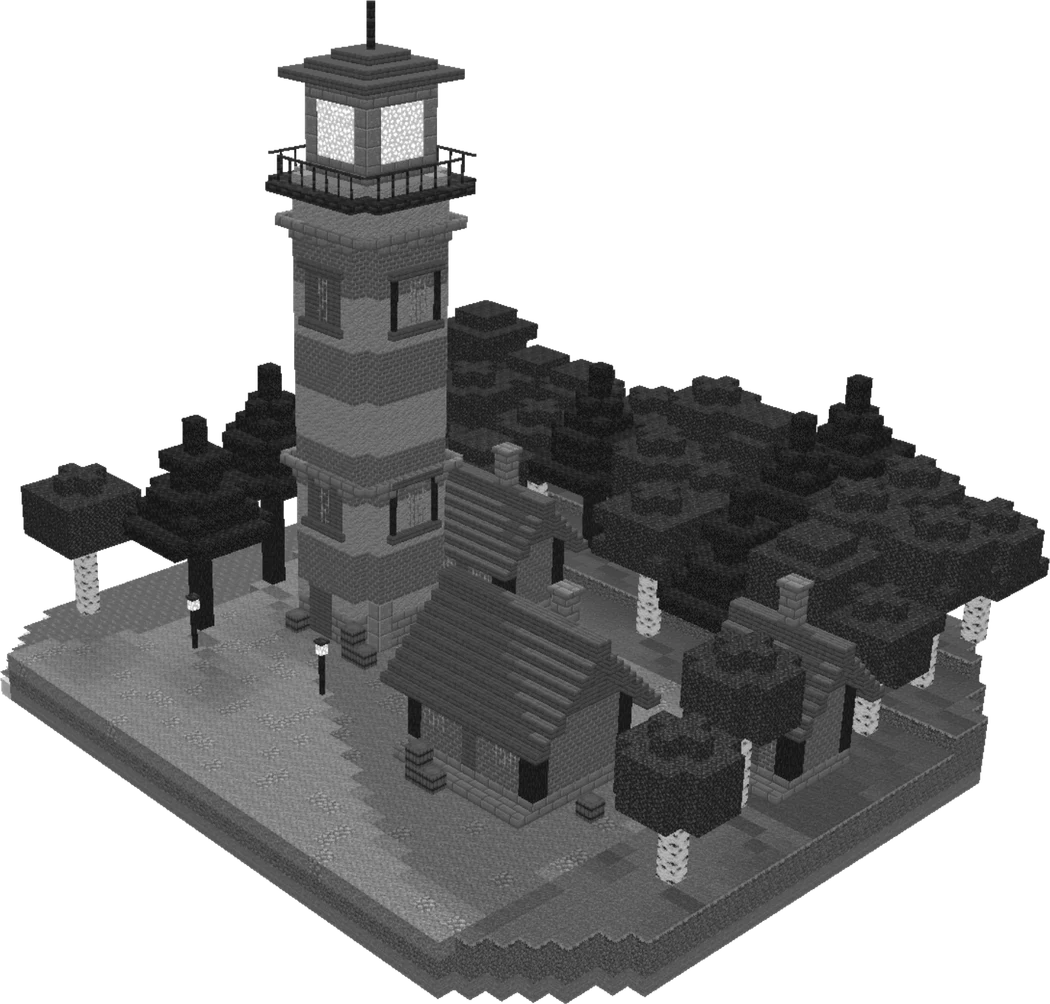
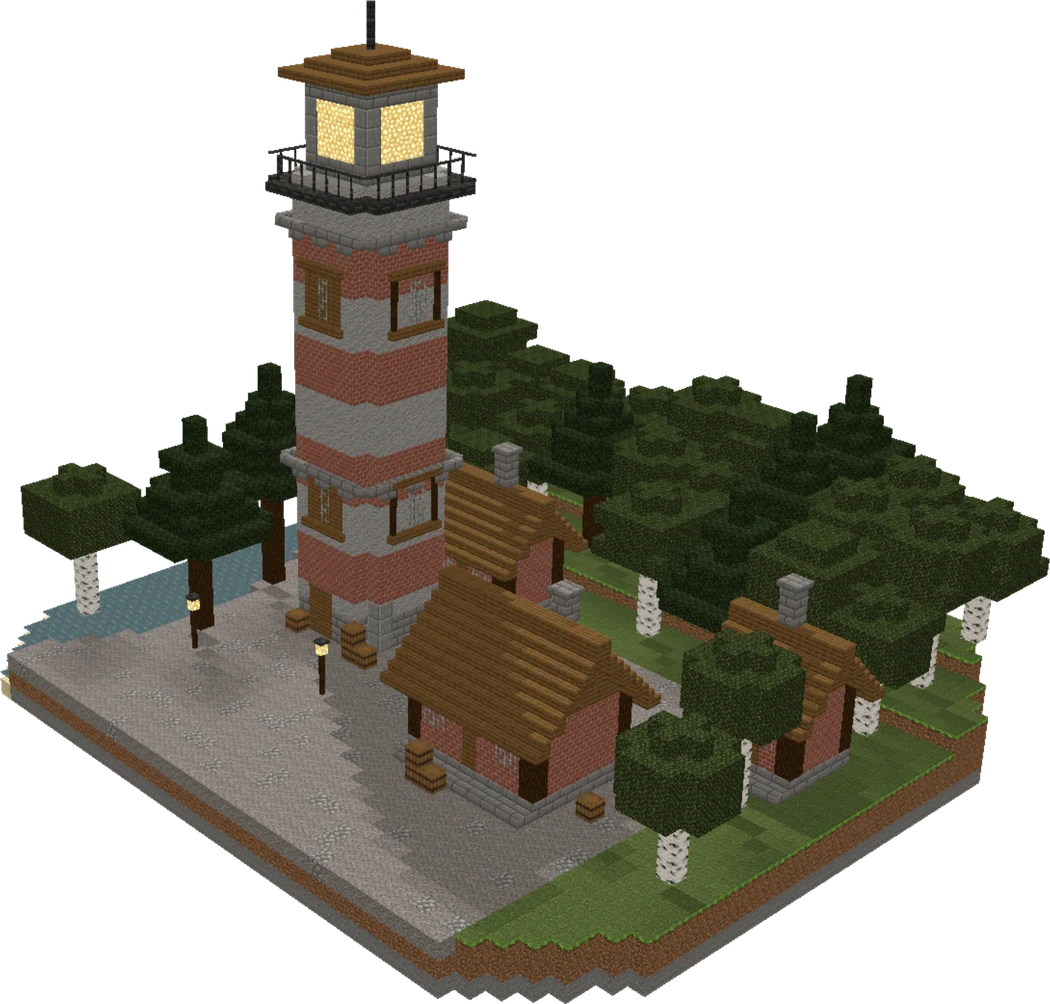
Restore Minecraft color and swirling block reconstruction

diff --git a/app/components/home/network-world.ts b/app/components/home/network-world.ts
@@ -1,20 +1,67 @@
 import * as THREE from 'three';
 import { networkCell } from './timeline.mjs';
 
-export function createNetworkWorld() {
-  // Every node is a closed, identically sized cube. Terrain face culling is never
-  // reused here, so rotating the network cannot expose missing walls or stair fragments.
-  const geometry = new THREE.BoxGeometry(.32,.32,.32);
+export function createNetworkWorld(world: THREE.Mesh<THREE.BufferGeometry, THREE.ShaderMaterial>) {
+  // Closed cubes replace the sealed world during breakup: no culled interior
+  // surfaces can become holes. Reuse the original atlas, with no extra texture.
+  const geometry = new THREE.BoxGeometry(.32, .32, .32);
+  const centers = world.geometry.getAttribute('aCenter');
+  const ids = world.geometry.getAttribute('aId');
+  const tiles = world.geometry.getAttribute('aTile');
+  const tints = world.geometry.getAttribute('aTint');
+  const unique = new Map<number, number>();
+  for (let i = 0; i < ids.count; i += 4) if (!unique.has(ids.getX(i))) unique.set(ids.getX(i), i);
+  const samples = [...unique.values()];
+  const sources = new Float32Array(1080 * 3), colors = new Float32Array(1080 * 3);
+  const tile = new Float32Array(1080), seeds = new Float32Array(1080);
+  for (let id = 0; id < 1080; id++) {
+    // A coprime permutation interleaves distant building/terrain blocks in racks.
+    const sample = samples[Math.floor(((id * 487) % 1080) / 1080 * samples.length)];
+    sources.set([centers.getX(sample), centers.getY(sample), centers.getZ(sample)], id * 3);
+    colors.set([tints.getX(sample), tints.getY(sample), tints.getZ(sample)], id * 3);
+    tile[id] = tiles.getX(sample); seeds[id] = id;
+  }
+  geometry.setAttribute('aSource', new THREE.InstancedBufferAttribute(sources, 3));
+  geometry.setAttribute('aTint', new THREE.InstancedBufferAttribute(colors, 3));
+  geometry.setAttribute('aTile', new THREE.InstancedBufferAttribute(tile, 1));
+  geometry.setAttribute('aSeed', new THREE.InstancedBufferAttribute(seeds, 1));
   const material = new THREE.ShaderMaterial({
-    uniforms:{uReveal:{value:0}},
-    vertexShader:`uniform float uReveal; varying float vLight;
-      void main(){ vLight=.5+.5*max(0.,dot(normal,normalize(vec3(-.5,1.,.6))));
-      vec3 p=(instanceMatrix*vec4(position*uReveal,1.)).xyz;
-      gl_Position=projectionMatrix*modelViewMatrix*vec4(p,1.); }`,
-    fragmentShader:`varying float vLight; void main(){gl_FragColor=vec4(vec3(.82)*vLight,1.); #include <colorspace_fragment> }`.replace('#include','\n#include').replace('> }','>\n}'),
+    uniforms: { uAtlas: world.material.uniforms.uAtlas, uNetwork: { value: 0 }, uSpread: { value: 1 } },
+    vertexShader: `
+      uniform float uNetwork, uSpread;
+      attribute vec3 aSource, aTint;
+      attribute float aTile, aSeed;
+      varying vec2 vUv;
+      varying vec3 vTint;
+      varying float vTile, vLight;
+      void main() {
+        float t = clamp(uNetwork, 0., 1.);
+        float burst = sin(t * 3.14159265);
+        float seed = aSeed * 2.39996323;
+        float angle = burst * (5. + mod(aSeed, 5.));
+        mat2 spin = mat2(cos(angle), -sin(angle), sin(angle), cos(angle));
+        vec3 local = position;
+        local.xz = spin * local.xz;
+        local.xy = spin * local.xy;
+        local *= smoothstep(0., .09, t);
+        vec3 destination = instanceMatrix[3].xyz;
+        vec3 p = mix(aSource, destination, smoothstep(.08, .98, t));
+        p += burst * uSpread * vec3(sin(seed + t * 9.) * 8., cos(seed * 1.7 + t * 7.) * 6., cos(seed + t * 11.) * 8.);
+        gl_Position = projectionMatrix * modelViewMatrix * vec4(p + local, 1.);
+        vUv = uv; vTint = aTint; vTile = aTile;
+        vLight = .55 + .45 * max(0., dot(normal, normalize(vec3(-.5, 1., .6))));
+      }
+    `,
+    fragmentShader: world.material.fragmentShader.replace(
+      'gl_FragColor = vec4(color, 1.0 - uNetwork);',
+      'color = mix(color, vec3(.82) * vLight, smoothstep(.65, .98, uNetwork)); gl_FragColor = vec4(color, 1.0);'
+    ).replace('else if (texel.a < .4 && vTile < 27.5) discard;', 'else if (texel.a < .4 && vTile < 27.5 && uNetwork < .65) discard;'),
   });
-  const mesh = new THREE.InstancedMesh(geometry,material,1080), transform=new THREE.Object3D();
-  for(let id=0;id<1080;id++){ const [x,y,z]=networkCell(id); transform.position.set(x,y,z); transform.updateMatrix(); mesh.setMatrixAt(id,transform.matrix); }
-  mesh.frustumCulled=false;
-  return {mesh,uniforms:material.uniforms};
+  const mesh = new THREE.InstancedMesh(geometry, material, 1080), transform = new THREE.Object3D();
+  for (let id = 0; id < 1080; id++) {
+    const [x, y, z] = networkCell(id);
+    transform.position.set(x, y, z); transform.updateMatrix(); mesh.setMatrixAt(id, transform.matrix);
+  }
+  mesh.frustumCulled = false;
+  return { mesh, uniforms: material.uniforms };
 }

diff --git a/app/components/home/scene.ts b/app/components/home/scene.ts
@@ -42,7 +42,7 @@ export async function createScene(host: HTMLElement, onFailure: () => void, sign
   const camera = new THREE.PerspectiveCamera(39, 1, .1, 130);
   const root = new THREE.Group();
   root.add(world.mesh);
-  const network = createNetworkWorld();
+  const network = createNetworkWorld(world.mesh);
   root.add(network.mesh);
   const infrastructure = createInfrastructure();
   root.add(infrastructure.group);
@@ -134,10 +134,11 @@ export async function createScene(host: HTMLElement, onFailure: () => void, sign
     camera.lookAt(pose.target[0], pose.target[1], pose.target[2]);
     root.rotation.y = pose.rotation + Math.max(-.025, Math.min(.025, velocity));
     root.rotation.z = mobile ? 0 : pointerX * .007;
-    world.mesh.visible = pose.network < .999;
+    world.mesh.visible = pose.network < .18;
     network.mesh.visible = pose.network > .01;
-    network.uniforms.uReveal.value = Math.min(1,pose.network * 1.5);
-    world.uniforms.uNetwork.value = pose.network;
+    network.uniforms.uNetwork.value = pose.network;
+    network.uniforms.uSpread.value = mobile ? .72 : 1;
+    world.uniforms.uNetwork.value = Math.min(1, pose.network / .18);
     world.uniforms.uSplit.value = pose.split;
     world.uniforms.uTime.value = now / 1000;
     infrastructure.material.opacity = pose.network * .65;

diff --git a/app/components/home/cinematic-home.module.css b/app/components/home/cinematic-home.module.css
@@ -9,7 +9,7 @@
 .wordmark { position:absolute; top:15%; left:5.5%; font-size:clamp(120px,20vw,320px); line-height:.9; font-weight:850; letter-spacing:-.065em; pointer-events:none; }
 .scene { position:absolute; inset:4% -12% -8% 3%; pointer-events:none; }
 .scene canvas { display:block; width:100%; height:100%; }
-.fallback { position:absolute; left:34%; top:17%; right:0; bottom:3%; pointer-events:none; filter:grayscale(1); }
+.fallback { position:absolute; left:34%; top:17%; right:0; bottom:3%; pointer-events:none; }
 .fallback img { width:100%; height:100%; object-fit:contain; }
 .root[data-mode='cinematic'] .fallback { display:none; }
 .chapters { position:absolute; inset:0; pointer-events:none; }

diff --git a/app/components/home/textured-world.ts b/app/components/home/textured-world.ts
@@ -69,7 +69,7 @@ export async function createTexturedWorld(signal?: AbortSignal) {
         color *= vec3(1.06, 1.0, .91);
         // Light sources stay bright without a bloom pass.
         if (vTile > 17.5 && vTile < 18.5) color = mix(color, vec3(1.0, .8, .28), .5);
-        color = vec3(dot(color, vec3(.2126,.7152,.0722)));
+
         gl_FragColor = vec4(color, 1.0 - uNetwork);
         #include <colorspace_fragment>
       }

diff --git a/DESIGN.md b/DESIGN.md
@@ -4,7 +4,7 @@
 Only `/`, on the isolated `codex/stimemc-cinematic` branch. Existing routes, navigation, APIs and authentication stay intact. Source claims come from the existing homepage and server mechanism content: Java/Bedrock crossplay through Geyser/ViaProxy, server-side modifications without client mods, player creations and community rules.
 
 ## Current direction — September 8 refinement
-One native-scroll cinematic stage: STIME → ENTER THE WORLD → JAVA × BEDROCK → A WORLD. A SYSTEM. → BEYOND VANILLA → ONE WORLD → JOIN STIME. The lighthouse reconstruction follows the supplied Minecraft reference, using original Java 1.21.1 block textures. The latest explicit black/white request takes precedence over the earlier warm-color direction: preserve texture detail, render neutral grayscale. Complementary shader code is not executed in the browser.
+One native-scroll cinematic stage: STIME → ENTER THE WORLD → JAVA × BEDROCK → A WORLD. A SYSTEM. → BEYOND VANILLA → ONE WORLD → JOIN STIME. The lighthouse reconstruction follows the supplied Minecraft reference, using original Java 1.21.1 block textures. September 9 correction: keep the interface and aligned network black/white, but restore original Minecraft colors on buildings, foliage and terrain. Complementary shader code is not executed in the browser.
 
 ## Visual foundations
 Black #090909 background, white #f5f5f5 lettering, gray borders and infrastructure. One Pretendard/Noto Sans KR/system sans family throughout. Readable dark #111111f5 cards behind all chapter explanations and titles. Large STIME remains a separate cinematic wordmark. Every homepage action uses the same dark fill, one-pixel border, 3px radius and clear white hover/focus treatment.
@@ -15,7 +15,7 @@ Remove tiny HUD annotations, scroll instructions, side chapter rail, quality/mot
 Desktop: large wordmark, world toward the right, explanation card left. Portrait mobile: title/world and readable card use separately positioned layers, technology cards above the network. Short landscape: compact left copy and right scene, with the join action clear of the card. Native touch scrolling is never intercepted. Use stable svh sizing, safe areas and at least 44px action targets.
 
 ## Geometry and animation
-Offline axis-aligned surface union removes both whole-block and partial slab/roof overlaps, retaining one owner per coplanar surface. Preserve UV offsets after clipping. Keep the physical Minecraft world intact while fading into 1,080 separate closed instanced cubes in three exact 6×10×6 racks. Never morph culled terrain fragments into disconnected cubes. Technology packets and waves animate continuously while visible; settled physical-world scenes sleep. Hidden tabs/offscreen scenes stop rendering.
+Offline axis-aligned surface union removes both whole-block and partial slab/roof overlaps, retaining one owner per coplanar surface. Preserve UV offsets after clipping. Hand off the physical world to 1,080 closed textured cubes sampled from its actual block locations. Cubes spin and cross through a broad deterministic cloud before settling into three exact 6×10×6 racks. Their texture color transitions to neutral white only as alignment completes. Reverse scrolling reconstructs the world. Portrait scatter uses 72% of the desktop travel distance. Never morph culled terrain fragments into disconnected cubes. Technology packets and waves animate continuously while visible; settled physical-world scenes sleep. Hidden tabs/offscreen scenes stop rendering.
 
 ## Performance and fallback
 One merged textured world draw: 27,862 triangles, 64,782 compressed geometry bytes. Network: 12,960 triangles in one instanced draw. Target fewer than 20 calls, 45k triangles and 2.4 million framebuffer pixels. One padded 256×128 atlas, baked directional light, no shadow maps or post-processing. Clamp mip derivatives within atlas padding. Geometry expands once from bounded 24-byte face records.

diff --git a/docs/homepage-refinements-validation.md b/docs/homepage-refinements-validation.md
@@ -37,3 +37,13 @@ Intel UHD/Chrome에서 5.5초 스크롤 측정: 6배 CPU 제한 데스크톱과 
 1.28Mbps, 150ms 지연, CPU 4배 제한: 첫 표시 1.60초, LCP 2.70초, 3D 준비 5.84초. JS 전송 약 425KB. SwiftShader 소프트웨어 WebGL도 동작했으며 해당 검사 RAF p95는 33.4ms였습니다.
 
 실제 저가 휴대폰의 발열·배터리·GPU 프레임 완료 시간은 이 데스크톱 에뮬레이션으로 검증할 수 없습니다. 측정값은 이번 로컬 실행 결과이며 기기별 보장 수치가 아닙니다.
+
+## 2026-09-09 후속 수정 — 색상과 분해 연출 복원
+
+위 11번의 세계 전체 무채색 처리는 후속 요청에 따라 변경했습니다. UI·카드·정렬된 네트워크는 흑백으로 유지하고, Minecraft 건물·나무·지형 및 대체 포스터는 원래 색상으로 복원했습니다.
+
+마을이 사라지고 격자가 나타나던 전환은 1,080개 닫힌 텍스처 큐브가 실제 마을 블록 위치에서 출발하여 회전·교차·분산한 뒤 정렬되는 연출로 변경했습니다. 정렬 마지막 단계에서만 흑백으로 변합니다. 반대로 스크롤하면 마을로 재구성됩니다. 모바일은 이동 거리를 72%로 조절합니다. 동일 아틀라스를 공유하며, 내부 면이 제거된 원본 마을 조각은 이동시키지 않아 기존 빈 면 문제를 방지합니다.
+
+이번 수정도 프로덕션 빌드와 전체 테스트 94개, 린트 검증을 수행했습니다. 전환 중간 단계는 데스크톱/모바일 각각 6개 시점으로 별도 캡처해 색상·분산·최종 정렬을 확인했습니다. 로그는 `scratch/cinematic/restored-*`에 있습니다.
+
+후속 브라우저 검사도 10개 화면 크기 × 7개 장면, 자동 LOW, 터치, 모션 감소 및 실패 대체 경로 모두 통과했으며 브라우저 오류는 없었습니다. 기존 장면별 렌더 예산을 유지합니다.

diff --git a/public/home/minecraft/README.md b/public/home/minecraft/README.md
@@ -26,6 +26,6 @@ The full client archive and loose source PNGs remain in ignored scratch storage.
 24 bytes per visible face: int16 center XYZ, uint16 size XYZ (1/1000 scene unit),
 uint8 tile, uint8 linear RGB, uint8 light (1/100), uint8 direction, uint16 block ID, and two uint16 UV offsets (1/1000 tile). The v2 magic is 0x53544d44.
 The client expands this bounded array into GPU vertices once; all occlusion and
-shadow tracing stay offline. Offline surface union removes partial overlaps and duplicate coplanar faces. Transfer is 64,782 bytes for 27,862 triangles. The latest homepage theme renders these original textures in grayscale; the source pixels remain unchanged.
+shadow tracing stay offline. Offline surface union removes partial overlaps and duplicate coplanar faces. Transfer is 64,782 bytes for 27,862 triangles. The homepage preserves original world colors within its black/white interface. Scattered cubes share the atlas and turn neutral only when forming the network.
 `settlement.json` records the geometry/transfer budget. The poster is captured
 from the actual browser-rendered model, rather than from the reference photo.
